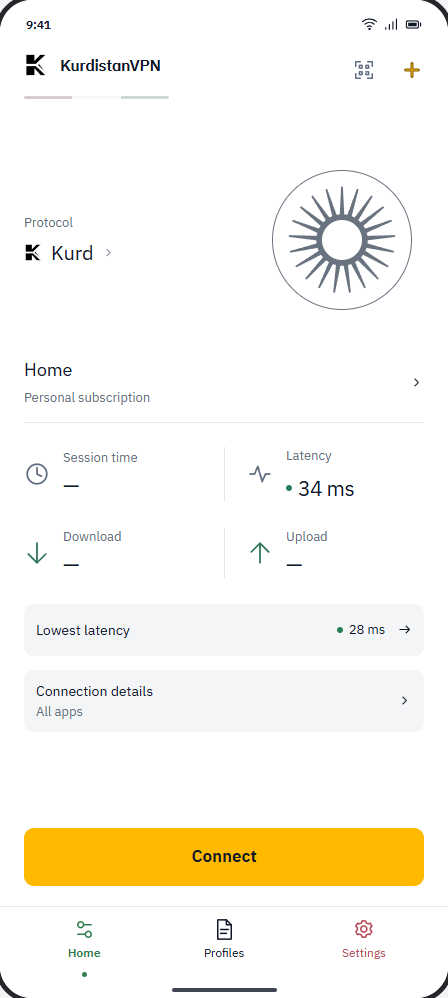
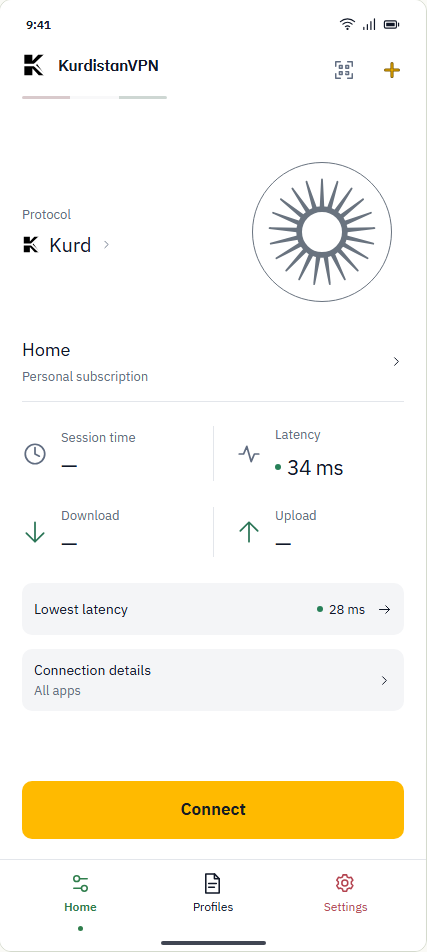
docs: refresh app previews to match the interactive demo
Show current Home and Profiles captures with synthetic data and retain the explicit interface-preview boundary.

diff --git a/README.md b/README.md
@@ -38,7 +38,7 @@ previews, not screenshots of a released Android build. Displayed locations and
 latencies are examples, not an available server list or performance measurements.
 
 <p>
-  <img src="docs/assets/app-home-preview.png" alt="Home interface preview with profile details and a Connect button" width="256">
+  <img src="docs/assets/app-home-preview.png" alt="Home interface preview with profile details and the sun connection control" width="256">
   <img src="docs/assets/app-profiles-preview.png" alt="Profiles interface preview with grouped example profiles and latency indicators" width="256">
 </p>
 
